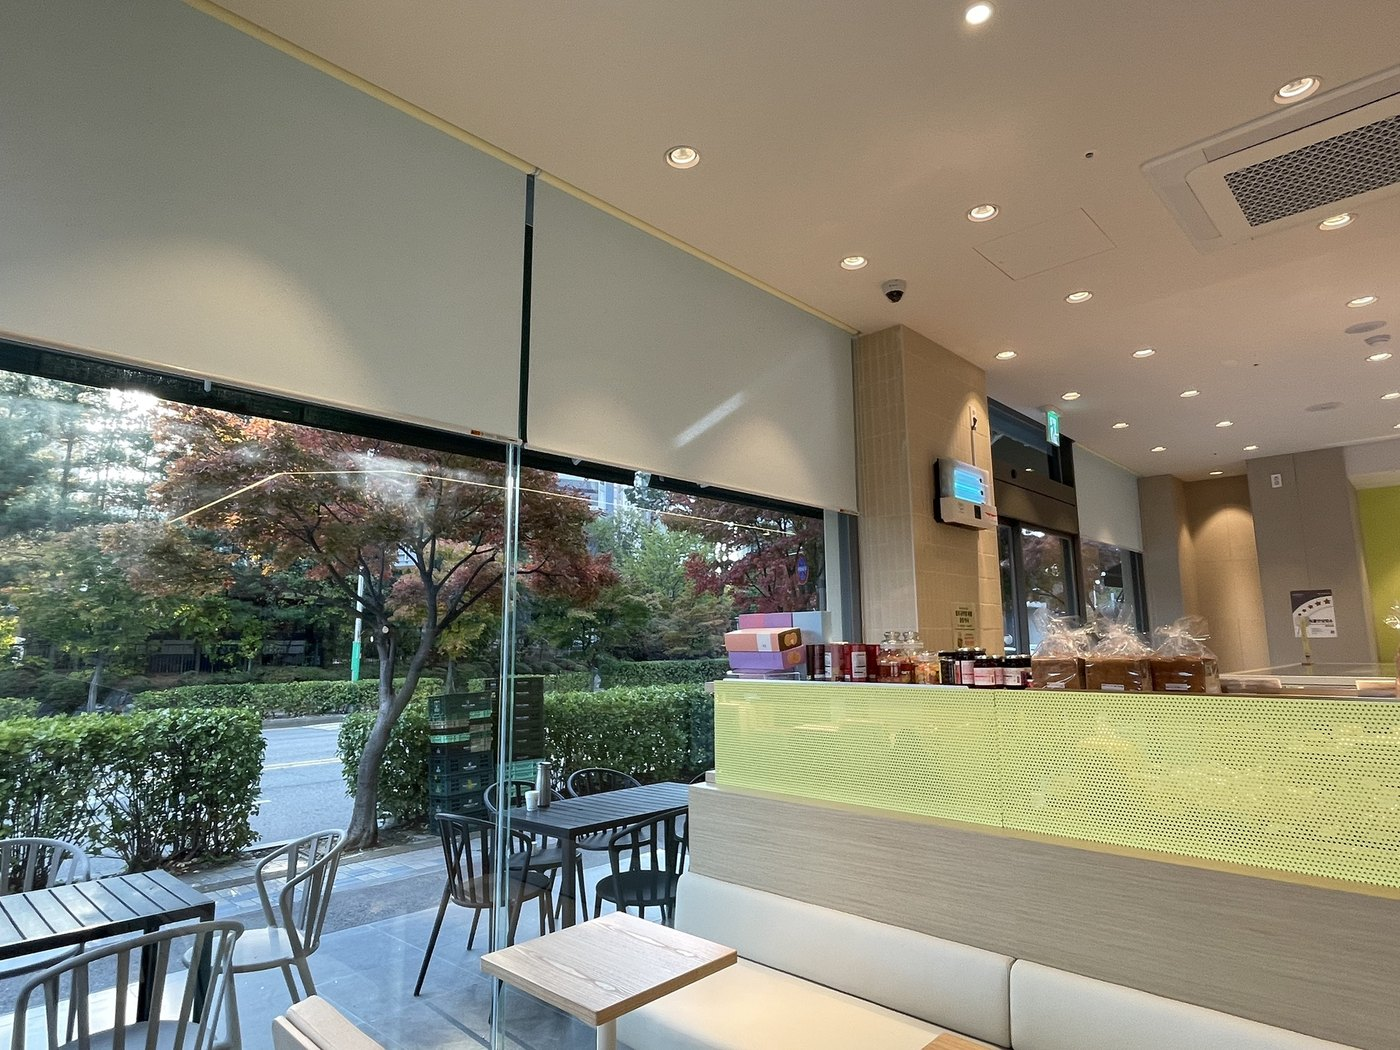
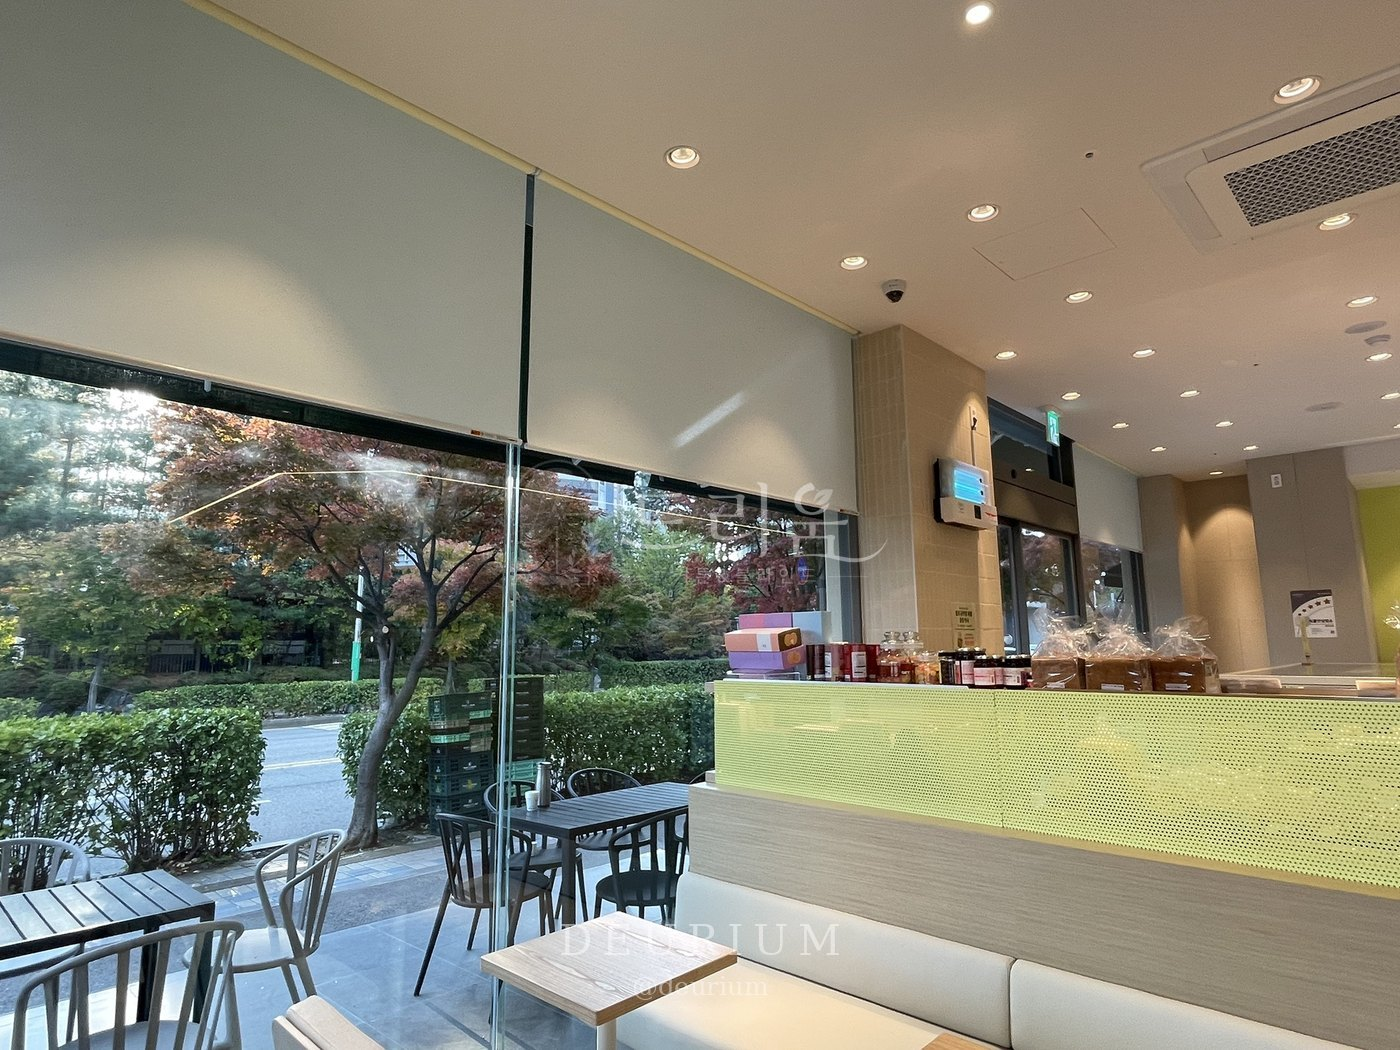
Add Deurium watermark tool and apply to 소래포구 Instagram and blog photos
Claude-Session: https://claude.ai/code/session_0165ATyasw5kQgVfVHJZrF1a

diff --git a/_build/watermark.py b/_build/watermark.py
@@ -1,0 +1,57 @@
+"""드리움 워터마크: 가운데 반투명 로고 + 하단 DEURIUM / @deurium.
+
+인스타 · 네이버 블로그 · 드리움 홈페이지 사진에만 쓴다 (결앤빛 사진에는 넣지 않음).
+드리움 홈페이지 시공후기 사진은 _blog 사진을 그대로 가져가므로 블로그 사진에 넣으면 같이 적용된다.
+
+사용: python3 _build/watermark.py 파일1.jpg 파일2.jpg ...  (제자리 덮어쓰기, 한 번만 실행)
+"""
+import sys
+from PIL import Image, ImageChops, ImageDraw, ImageFont
+
+LOGO = "/home/user/---/images/logo.png"
+FONT = "/usr/share/fonts/truetype/dejavu/DejaVuSerif.ttf"
+
+_mask = None
+
+
+def _logo_mask():
+    global _mask
+    if _mask is None:
+        g = Image.open(LOGO).convert("L")
+        _mask = ImageChops.invert(g).point(lambda v: min(255, int(v * 1.8)))
+    return _mask
+
+
+def _spaced(d, text, font, y, W, track, alpha):
+    widths = [d.textlength(ch, font=font) for ch in text]
+    total = sum(widths) + track * (len(text) - 1)
+    x = (W - total) / 2
+    for ch, w in zip(text, widths):
+        d.text((x, y), ch, font=font, fill=(255, 255, 255, alpha))
+        x += w + track
+
+
+def apply(im):
+    im = im.convert("RGBA")
+    W, H = im.size
+    base = min(W, H * 4 / 3)
+    lay = Image.new("RGBA", im.size, (0, 0, 0, 0))
+    mask = _logo_mask()
+    lw = int(base * 0.28)
+    m = mask.resize((lw, round(lw * mask.height / mask.width)))
+    logo = Image.new("RGBA", m.size, (255, 255, 255, 0))
+    logo.putalpha(m.point(lambda v: int(v * 0.40)))
+    lay.alpha_composite(logo, ((W - lw) // 2, (H - m.height) // 2))
+    d = ImageDraw.Draw(lay)
+    f1 = ImageFont.truetype(FONT, int(base * 0.030))
+    f2 = ImageFont.truetype(FONT, int(base * 0.019))
+    _spaced(d, "DEURIUM", f1, H - base * 0.096, W, base * 0.030 * 0.22, 120)
+    _spaced(d, "@deurium", f2, H - base * 0.057, W, 0, 110)
+    im.alpha_composite(lay)
+    return im.convert("RGB")
+
+
+if __name__ == "__main__":
+    for p in sys.argv[1:]:
+        apply(Image.open(p)).save(p, "JPEG", quality=86, optimize=True, progressive=True)
+        print("watermarked", p)

diff --git a/_insta/STYLE.md b/_insta/STYLE.md
@@ -40,3 +40,9 @@
 ## 음악
 - API 게시로는 인스타 음악을 붙일 수 없음 → 음악이 필요한 게시물은 캡션·사진만 준비하고 사장님이 앱에서 업로드
 - 추천: 음악 선택 화면의 ↗(인기 급상승) 곡, 잔잔한 어쿠스틱/감성 팝
+
+## 워터마크 (사장님 지시, 2026-11-11)
+- 인스타 · 네이버 블로그 · 드리움 홈페이지 사진에 드리움 워터마크 적용: `python3 _build/watermark.py 파일들` (한 번만 실행)
+- 가운데 반투명 드리움 로고 + 하단 `DEURIUM` / `@deurium` (자간 좁게)
+- 드리움 홈페이지 시공후기 사진은 _blog 사진을 가져가므로 블로그 사진에 넣으면 자동 적용
+- 결앤빛(images/cases) 사진에는 넣지 않음
